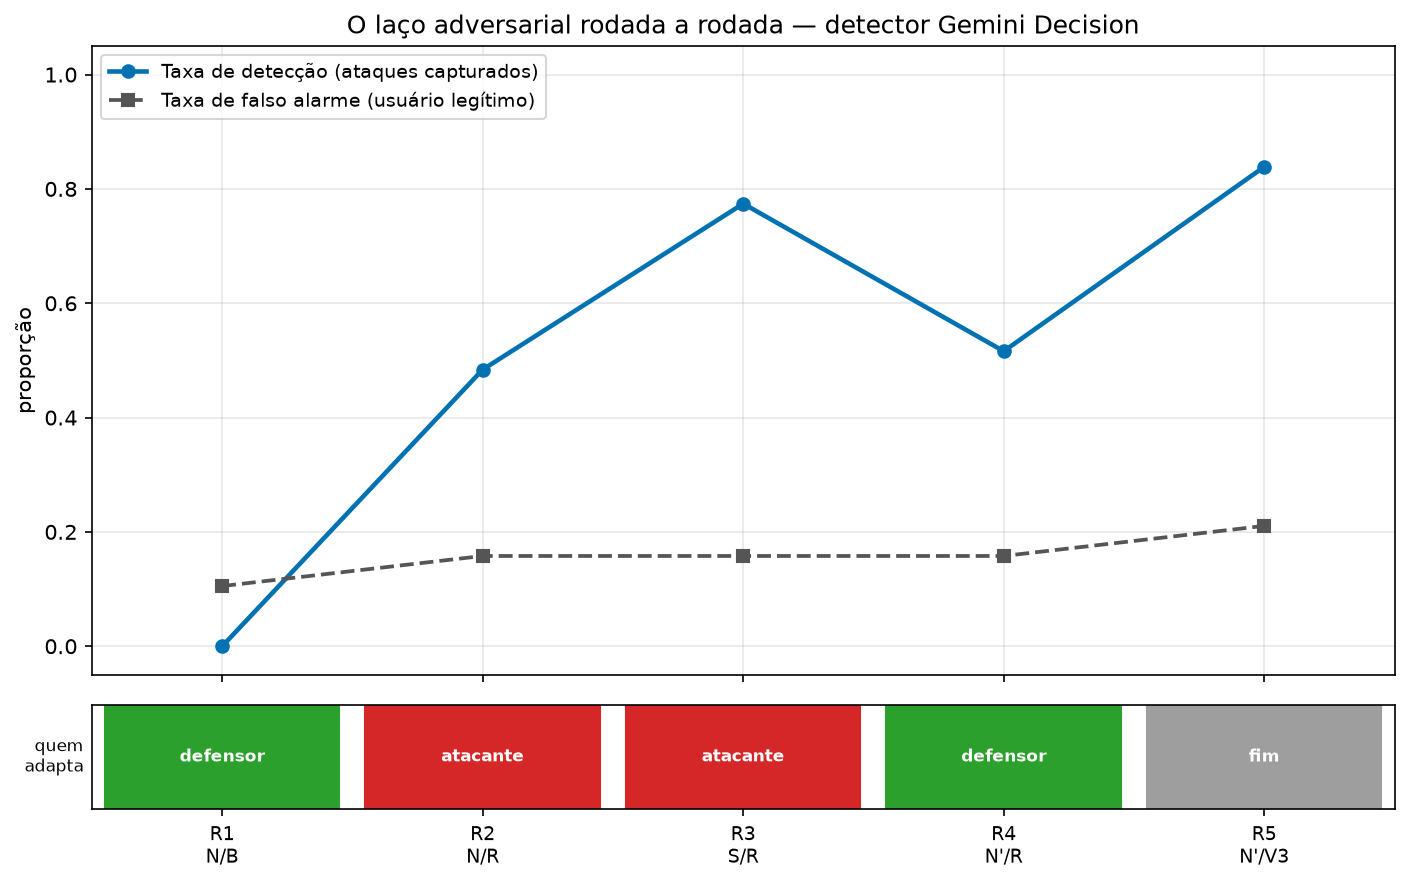
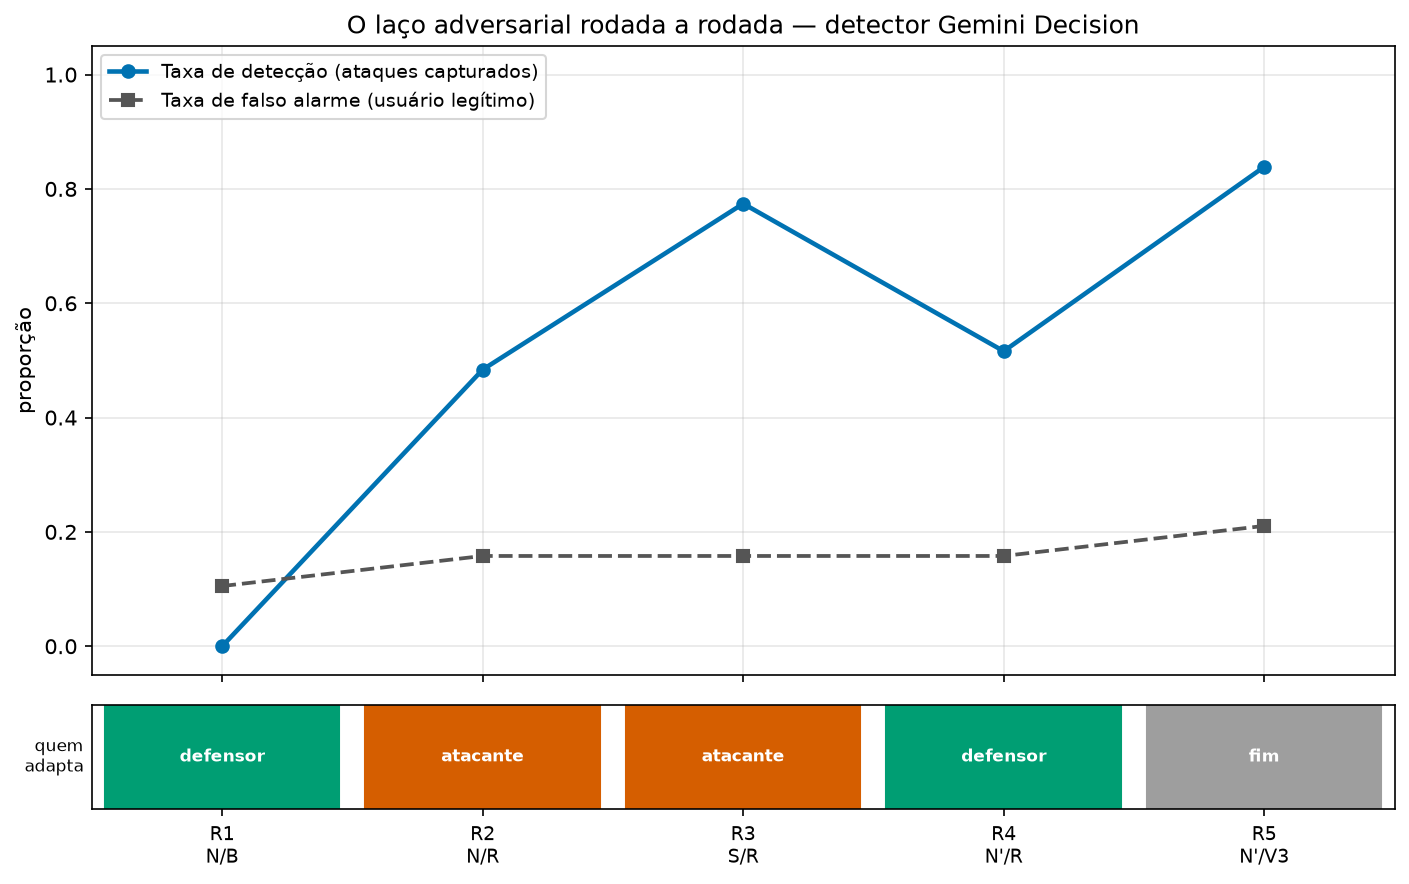
Gráficos do laço longo: efeito de cada jogada, ritmo da disputa e os dois detectores
scripts/plot_long_comparison.py desenha, a partir das mesmas pastas de
scripts/plot_long_run.py, o que cada jogada mudou na rodada seguinte, quantas vezes
cada lado mudou a própria ação e a comparação do Gemini Decision com o Clef. O verde
do defensor e o vermelho do atacante passam a ser os de Okabe e Ito, que um leitor
daltônico distingue; os gráficos das cinco rodadas foram redesenhados com eles.

Changed region(s): [[0.0625, 0.7941, 0.8119, 0.9163]]

diff --git a/scripts/plot_long_comparison.py b/scripts/plot_long_comparison.py
@@ -1,0 +1,289 @@
+"""Draw the long adversarial runs side by side: what each side's move changed, how often each side moved, and the two detectors.
+
+Run from the repository root with the run folders given to `scripts.plot_long_run`. matplotlib is not a project dependency, so
+bring it in for the run only:
+
+    uv run --with matplotlib python -m scripts.plot_long_comparison results/<gemini decision run> results/<clef run>
+
+It writes, in `results/comparison/`:
+
+- `laco_longo_jogadas.png`: after each round in which one side changed its action, how detection and false alarm moved in the
+  next round, split by the side that moved, with a ring where the attacker removed its note. The note only goes into attack
+  records, so after an attacker's move the normal records reach the detector exactly as before: a change in false alarm there
+  could only be the detector's own variation.
+- `laco_longo_ritmo.png`: how many times each side had changed its action by each round, with a dotted line where the run was
+  resumed past a round both sides held in (`jev-ids resume --past-stable`).
+- `laco_longo_modelos.png`: the two detectors compared: detection and false alarm over the rounds, every round as a point of
+  detection against false alarm with an arrow from the first rounds' mean to the last rounds' mean, and each metric's mean over
+  all the rounds of each run.
+
+It prints, per run and side, the mean change after the side's moves. Each run is one non-deterministic trajectory, so a
+difference between the detectors is a difference between two runs, not between two averages.
+"""
+
+import argparse
+from pathlib import Path
+from typing import Any
+
+from scripts.plot_long_run import METRICS, MOVING_WINDOW, OUT_DIR, Run, load_run, moving_mean, phase_mean, phases
+from scripts.plotting import WHO_COLORS, plt
+
+# The side that changed its action after a round, and how the figures name its move.
+SIDES = (("attacker", "atacante mudou\na nota"), ("defender", "defensor mudou\nas instruções"))
+EFFECT_METRICS = (("detection_rate", "detecção"), ("false_alarm_rate", "falso alarme"))
+# The detector of each run in the first two slots of the categorical palette checked for colour vision deficiency.
+MODEL_COLORS = {"gemini_decision": "#2a78d6", "systemone": "#eb6834"}
+OTHER_MODEL_COLOR = "#52514e"
+INK = "#0b0b0b"
+MUTED = "#52514e"
+PERCENT = 100
+# Spreading the points of one side sideways, by their order, so that equal changes do not hide each other.
+JITTER_STEPS = 7
+JITTER_WIDTH = 0.04
+MEAN_HALF_WIDTH = 0.22
+# Leaving room after the last round for the name and the count at the end of each line.
+END_LABEL_ROOM = 12
+# The kind of move by which the attacker takes its note out, drawn as a ring.
+REMOVED = "remove"
+
+
+def model_color(run: Run) -> str:
+    """The colour of the run's detector, the same in every panel."""
+    return MODEL_COLORS.get(run.detector, OTHER_MODEL_COLOR)
+
+
+def save(figure: Any, path: Path) -> None:
+    """Lay out, write and close `figure`."""
+    figure.tight_layout()
+    figure.savefig(path, dpi=150, bbox_inches="tight")
+    plt.close(figure)
+
+
+def move_kind(row: dict[str, Any], side: str) -> str:
+    """The kind of move `side` made after `row`, as its `next_action` records it: `reformulate`, `remove`, `custom`, `reinforce`, ..."""
+    for part in str(row.get("next_action") or "").split("|"):
+        action = part.strip()
+        if action.startswith(f"{side}:"):
+            return action.split(":", 1)[1].split("->", 1)[0]
+    return ""
+
+
+def move_effects(run: Run, side: str, column: str) -> list[tuple[str, float]]:
+    """Each move of `side`: its kind and how `column` changed, in percentage points, from the round before it to the round after."""
+    pairs = zip(run.rows, run.rows[1:], strict=False)
+    return [
+        (move_kind(before, side), (float(after[column]) - float(before[column])) * PERCENT)
+        for before, after in pairs
+        if before["who_adapts"] == side
+    ]
+
+
+def spread(count: int) -> list[float]:
+    """A sideways offset for each of `count` points, repeating every JITTER_STEPS points, the same on every run."""
+    return [((index % JITTER_STEPS) - JITTER_STEPS // 2) * JITTER_WIDTH for index in range(count)]
+
+
+def draw_mean(axis: Any, position: int, changes: list[float]) -> None:
+    """The mean of `changes` as a short bar across the strip at `position`, named with its value and the number of moves."""
+    mean = sum(changes) / len(changes)
+    axis.hlines(mean, position - MEAN_HALF_WIDTH, position + MEAN_HALF_WIDTH, color=INK, linewidth=2, zorder=3)
+    label = f"média {mean:+.1f} p.p.\n{len(changes)} jogadas"
+    axis.annotate(label, (position + MEAN_HALF_WIDTH, mean), xytext=(6, 0), textcoords="offset points", va="center", fontsize=8)
+
+
+def draw_points(axis: Any, places: list[float], moves: list[tuple[str, float]], colour: str) -> None:
+    """The moves as filled points and the notes removed as rings, so that a retreat is told apart from a new wording."""
+    for hollow in (False, True):
+        chosen = [(place, change) for place, (kind, change) in zip(places, moves, strict=True) if (kind == REMOVED) == hollow]
+        if not chosen:
+            continue
+        style = {"facecolors": "none", "edgecolors": colour, "linewidths": 1.6} if hollow else {"color": colour, "alpha": 0.65}
+        axis.scatter([place for place, _ in chosen], [change for _, change in chosen], s=30, **style)
+
+
+def draw_effects(axis: Any, run: Run, column: str) -> None:
+    """A strip of points per side, each the change in `column` after one of its moves, with the side's mean across it."""
+    for position, (side, _) in enumerate(SIDES):
+        moves = move_effects(run, side, column)
+        draw_points(axis, [position + offset for offset in spread(len(moves))], moves, WHO_COLORS[side])
+        if moves:
+            draw_mean(axis, position, [change for _, change in moves])
+    axis.axhline(0, color=MUTED, linewidth=0.8)
+    axis.set_xticks(range(len(SIDES)))
+    axis.set_xticklabels([name for _, name in SIDES], fontsize=9)
+    axis.set_xlim(-0.6, len(SIDES) - 0.1)
+    axis.grid(visible=True, axis="y", alpha=0.3)
+
+
+def plot_move_effects(runs: list[Run], path: Path) -> None:
+    """A row of strips per metric and a column per run: what each side's moves changed in the next round."""
+    figure, axes = plt.subplots(len(EFFECT_METRICS), len(runs), figsize=(6.2 * len(runs), 8.4), squeeze=False, sharey="row")
+    for row_axes, (column, name) in zip(axes, EFFECT_METRICS, strict=True):
+        for axis, run in zip(row_axes, runs, strict=True):
+            draw_effects(axis, run, column)
+            axis.set_title(f"{run.label}: {name} na rodada seguinte", fontsize=10)
+        row_axes[0].set_ylabel("variação (pontos percentuais)")
+    ring = plt.Line2D([], [], marker="o", linestyle="none", markerfacecolor="none", markeredgecolor=WHO_COLORS["attacker"])
+    figure.legend([ring], ["anel: o atacante retirou a nota"], loc="lower center", bbox_to_anchor=(0.5, -0.02), frameon=False, fontsize=9)
+    figure.suptitle(
+        "O que cada jogada mudou na rodada seguinte (cada ponto é uma jogada)\n"
+        "na detecção, abaixo de zero favorece o atacante e acima favorece o defensor; no falso alarme, abaixo de zero favorece o defensor",
+        fontsize=11,
+    )
+    save(figure, path)
+
+
+def cumulative_moves(run: Run, side: str) -> list[int]:
+    """How many times `side` had changed its action by the end of each round of `run`."""
+    counts: list[int] = []
+    total = 0
+    for row in run.rows:
+        total += 1 if row["who_adapts"] == side else 0
+        counts.append(total)
+    return counts
+
+
+def draw_past_stable(axis: Any, run: Run) -> None:
+    """A dotted line after each round both sides held in that the run was resumed past, named once in the legend."""
+    for index, held in enumerate(run.past_stable):
+        label = "retomada depois de um stable" if index == 0 else None
+        axis.axvline(held + 0.5, color="#7f7f7f", linestyle=":", linewidth=1.6, label=label)
+
+
+def draw_pace(axis: Any, run: Run) -> None:
+    """Both sides' running counts of changes over the rounds of `run`, each named at its end with its total."""
+    rounds = [row["round"] for row in run.rows]
+    names = {"attacker": "atacante: {} mudanças", "defender": "defensor: {} mudanças"}
+    styles = {"attacker": "-", "defender": "--"}
+    for side, _ in SIDES:
+        counts = cumulative_moves(run, side)
+        axis.step(rounds, counts, where="post", color=WHO_COLORS[side], linestyle=styles[side], linewidth=2.2)
+        end = (rounds[-1], counts[-1])
+        axis.annotate(names[side].format(counts[-1]), end, xytext=(6, 0), textcoords="offset points", va="center", fontsize=9)
+    draw_past_stable(axis, run)
+    axis.set_xlim(0.5, rounds[-1] + END_LABEL_ROOM)
+    axis.set_xticks([1, *range(10, rounds[-1] + 1, 10)])
+    axis.set_xlabel("rodada")
+    axis.grid(visible=True, alpha=0.3)
+    axis.set_title(f"{run.label}: {len(rounds)} rodadas, fim por {run.rows[-1]['why_adapted']}", fontsize=10)
+    if run.past_stable:
+        axis.legend(loc="upper left", fontsize=8, frameon=False)
+
+
+def plot_pace(runs: list[Run], path: Path) -> None:
+    """A panel per run with how many times each side had changed its action by each round, on one shared scale."""
+    figure, axes = plt.subplots(1, len(runs), figsize=(7.2 * len(runs), 4.8), squeeze=False, sharey=True)
+    for axis, run in zip(axes[0], runs, strict=True):
+        draw_pace(axis, run)
+    axes[0][0].set_ylabel("mudanças acumuladas")
+    figure.suptitle("O ritmo da disputa: quantas vezes cada lado mudou a própria ação", fontsize=12)
+    save(figure, path)
+
+
+def draw_overlay(axis: Any, runs: list[Run]) -> None:
+    """Each run's moving means of detection (solid) and of false alarm (dashed) over the rounds, on one axis."""
+    for run in runs:
+        rounds = [row["round"] for row in run.rows]
+        for column, style, name in (("detection_rate", "-", "detecção"), ("false_alarm_rate", "--", "falso alarme")):
+            values = moving_mean([float(row[column]) for row in run.rows], MOVING_WINDOW)
+            axis.plot(rounds, values, color=model_color(run), linestyle=style, linewidth=2.2, label=f"{run.label}: {name}")
+    axis.set_ylim(0.0, 1.0)
+    axis.set_xlim(0.5, max(len(run.rows) for run in runs) + 0.5)
+    axis.set_xlabel("rodada")
+    axis.set_ylabel(f"média de {MOVING_WINDOW} rodadas")
+    axis.grid(visible=True, alpha=0.3)
+    axis.legend(loc="upper center", bbox_to_anchor=(0.5, -0.16), ncol=len(runs) * 2, fontsize=9, frameon=False)
+    axis.set_title("Detecção (linha cheia) e falso alarme (tracejada) ao longo das rodadas", fontsize=10)
+
+
+def draw_drift(axis: Any, run: Run) -> None:
+    """An arrow from the mean of the first rounds of `run` to the mean of its last rounds, in false alarm and detection."""
+    size, first, last = phases(run)
+    start = (phase_mean(first, "false_alarm_rate"), phase_mean(first, "detection_rate"))
+    end = (phase_mean(last, "false_alarm_rate"), phase_mean(last, "detection_rate"))
+    axis.annotate("", xy=end, xytext=start, arrowprops={"arrowstyle": "-|>", "color": model_color(run), "linewidth": 2})
+    axis.scatter([end[0]], [end[1]], s=80, color=model_color(run), zorder=3)
+    label = f"{run.label}: média das\nrodadas 1–{size} → últimas {size}"
+    box = {"boxstyle": "round,pad=0.25", "facecolor": "white", "edgecolor": "none", "alpha": 0.85}
+    axis.annotate(label, end, xytext=(12, 10), textcoords="offset points", fontsize=8, color=INK, bbox=box)
+
+
+def draw_tradeoff(axis: Any, runs: list[Run]) -> None:
+    """Every round of each run as a point of detection against false alarm, with the drift from its first to its last rounds."""
+    for run in runs:
+        alarms = [row["false_alarm_rate"] for row in run.rows]
+        detection = [row["detection_rate"] for row in run.rows]
+        axis.scatter(alarms, detection, s=20, color=model_color(run), alpha=0.35, linewidths=0, label=f"{run.label}: uma rodada")
+        draw_drift(axis, run)
+    axis.set_xlim(0.0, 1.0)
+    axis.set_ylim(0.0, 1.02)
+    axis.set_xlabel("falso alarme")
+    axis.set_ylabel("detecção")
+    axis.annotate("canto ideal", (0.02, 0.99), fontsize=8, color=MUTED, va="top")
+    axis.grid(visible=True, alpha=0.3)
+    axis.legend(loc="lower right", fontsize=8, frameon=False)
+    axis.set_title("Cada rodada como um ponto: detecção × falso alarme", fontsize=10)
+
+
+def draw_means(axis: Any, runs: list[Run]) -> None:
+    """Each metric's mean over all the rounds of each run, as bars side by side, each named with its value."""
+    positions = list(range(len(METRICS)))
+    slot = 0.8 / len(runs)
+    for index, run in enumerate(runs):
+        values = [phase_mean(run.rows, column) for column, _ in METRICS]
+        offset = (index - (len(runs) - 1) / 2) * slot
+        label = f"{run.label} ({len(run.rows)} rodadas)"
+        bars = axis.bar([p + offset for p in positions], values, slot * 0.92, color=model_color(run), label=label)
+        axis.bar_label(bars, fmt="%.2f", fontsize=8)
+    axis.set_xticks(positions)
+    axis.set_xticklabels([name for _, name in METRICS], fontsize=9)
+    axis.set_ylim(0.0, 1.12)
+    axis.grid(visible=True, axis="y", alpha=0.3)
+    axis.legend(loc="upper right", fontsize=8, frameon=False)
+    axis.set_title("Média de cada métrica em todas as rodadas", fontsize=10)
+
+
+def plot_models(runs: list[Run], path: Path) -> None:
+    """The detectors compared: the rounds over time on top, the rounds as points and the means of the metrics underneath."""
+    figure = plt.figure(figsize=(13, 10))
+    grid = figure.add_gridspec(2, 2, height_ratios=[1.0, 1.15])
+    draw_overlay(figure.add_subplot(grid[0, :]), runs)
+    draw_tradeoff(figure.add_subplot(grid[1, 0]), runs)
+    draw_means(figure.add_subplot(grid[1, 1]), runs)
+    figure.suptitle(" × ".join(run.label for run in runs) + ": o mesmo laço com dois detectores", fontsize=12)
+    save(figure, path)
+
+
+def describe_effects(run: Run) -> str:
+    """One line with the mean change of each metric after each side's moves, as the README quotes them."""
+    parts: list[str] = []
+    for side, _ in SIDES:
+        for column, name in EFFECT_METRICS:
+            changes = [change for _, change in move_effects(run, side, column)]
+            mean = sum(changes) / len(changes) if changes else 0.0
+            parts.append(f"{side} -> {name} {mean:+.1f} pp over {len(changes)} moves")
+    return f"{run.label}: " + "; ".join(parts)
+
+
+def parse_args() -> argparse.Namespace:
+    """The command line: the run folders, one per detector, and the folder the figures go to."""
+    parser = argparse.ArgumentParser(description="draw the long adversarial runs side by side")
+    parser.add_argument("run_dirs", nargs="+", type=Path, help="results/adv_* folders, one per detector")
+    parser.add_argument("--out-dir", type=Path, default=OUT_DIR, help="folder the figures are written to")
+    return parser.parse_args()
+
+
+def main() -> None:
+    """Read every run, then draw the effects of the moves, the pace of the moves and the detectors compared."""
+    args = parse_args()
+    runs = [load_run(run_dir) for run_dir in args.run_dirs]
+    args.out_dir.mkdir(parents=True, exist_ok=True)
+    plot_move_effects(runs, args.out_dir / "laco_longo_jogadas.png")
+    plot_pace(runs, args.out_dir / "laco_longo_ritmo.png")
+    plot_models(runs, args.out_dir / "laco_longo_modelos.png")
+    for run in runs:
+        print(describe_effects(run))
+
+
+if __name__ == "__main__":
+    main()

diff --git a/scripts/plotting.py b/scripts/plotting.py
@@ -14,5 +14,6 @@ matplotlib.use("Agg")
 plt: Any = importlib.import_module("matplotlib.pyplot")
 patches: Any = importlib.import_module("matplotlib.patches")
 
-# Who the orchestrator chose to adapt after a round, in the colours the loop diagrams use: green defender, red attacker, grey end.
-WHO_COLORS: dict[str, str] = {"defender": "#2ca02c", "attacker": "#d62728", "": "#9e9e9e"}
+# Who the orchestrator chose to adapt after a round, green defender and red attacker as in the loop diagrams, grey end. The green
+# and the red are the bluish green and the vermillion of Okabe and Ito, which a reader with red-green colour blindness tells apart.
+WHO_COLORS: dict[str, str] = {"defender": "#009e73", "attacker": "#d55e00", "": "#9e9e9e"}
